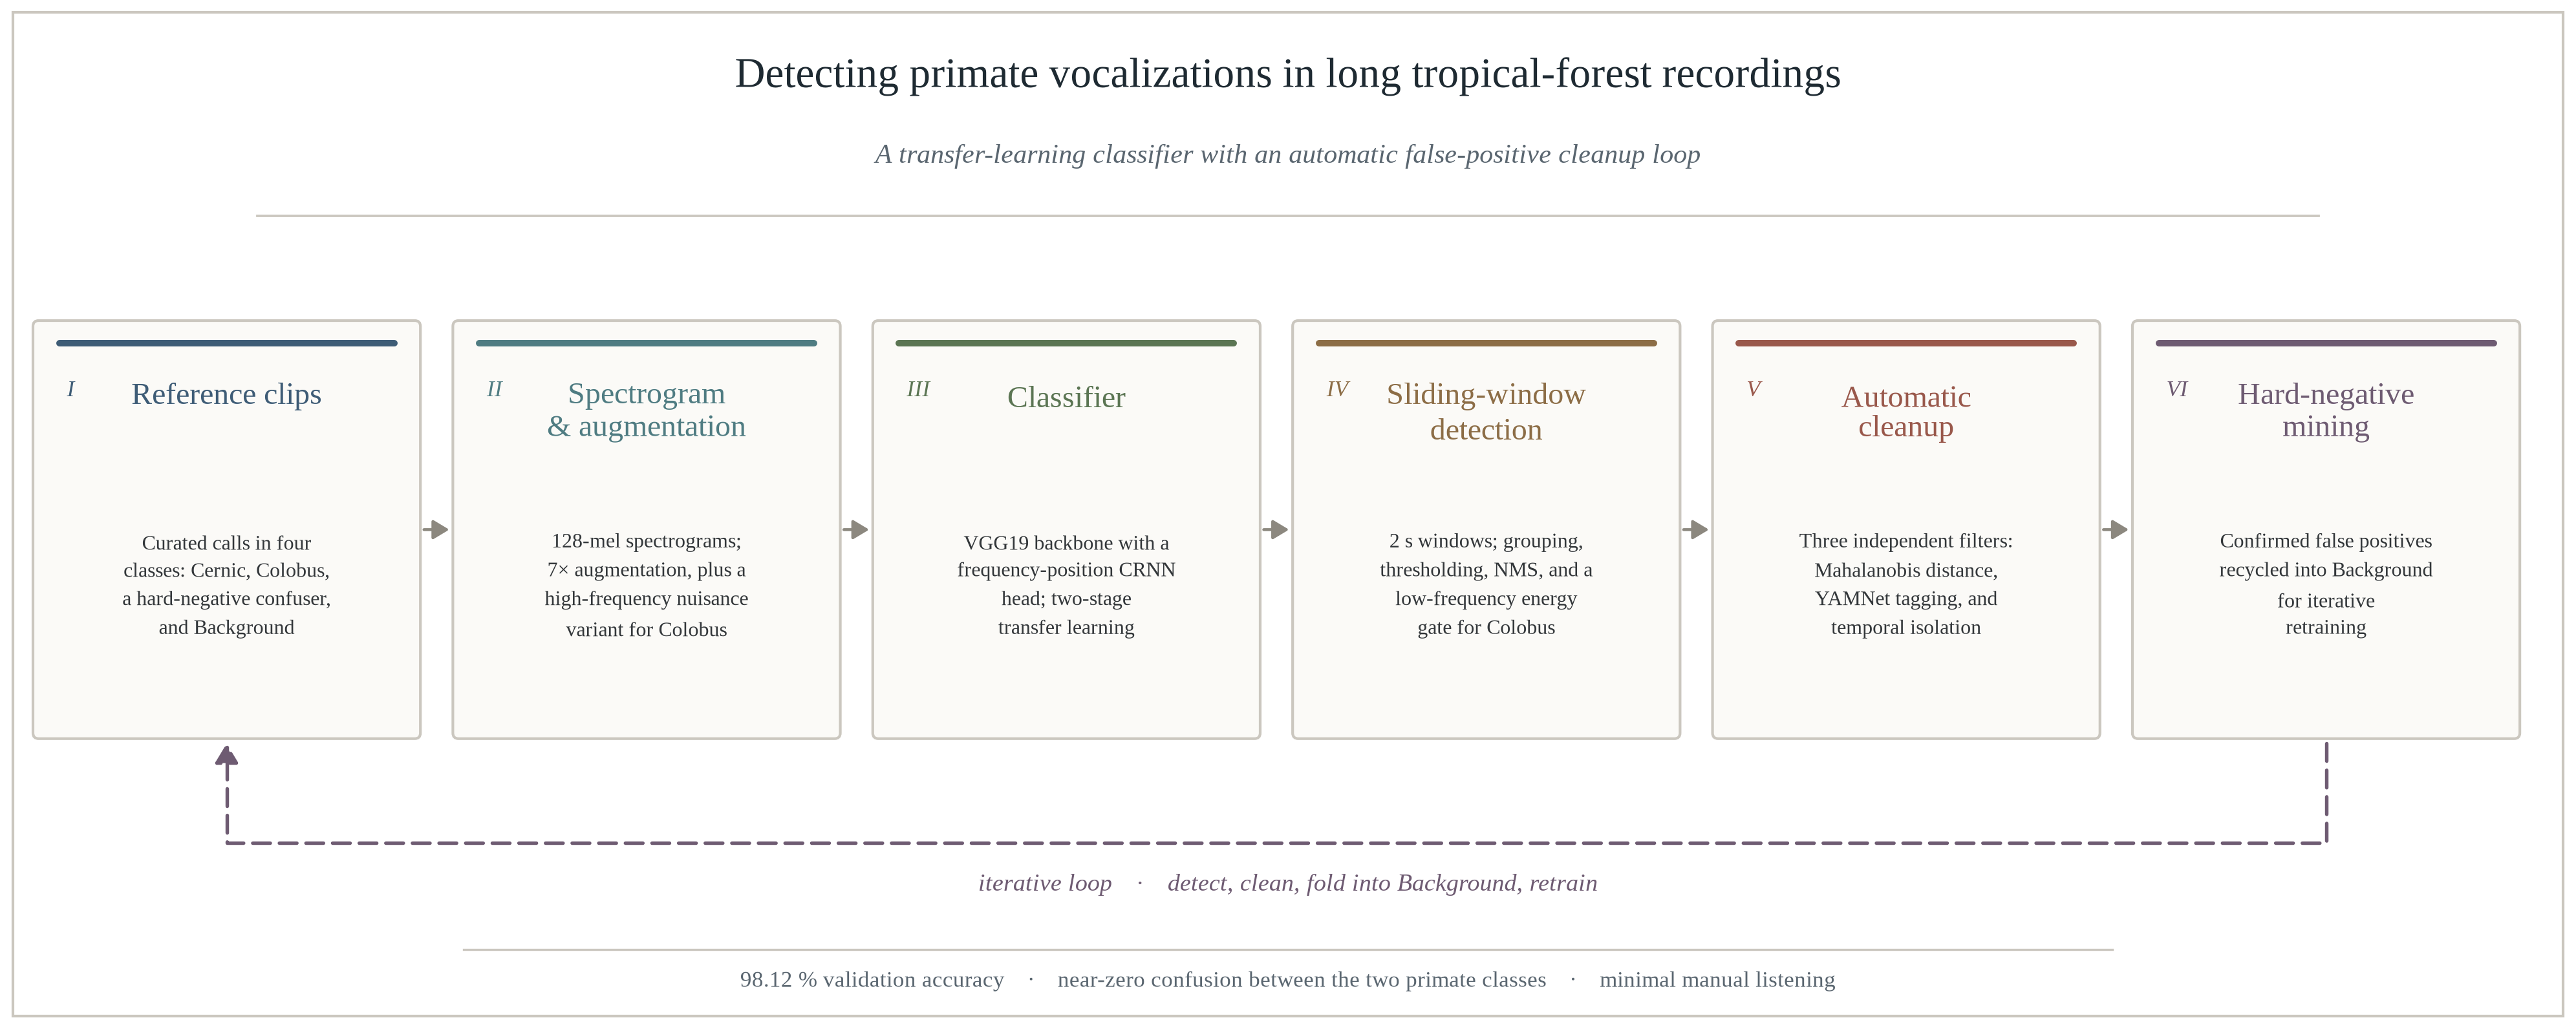
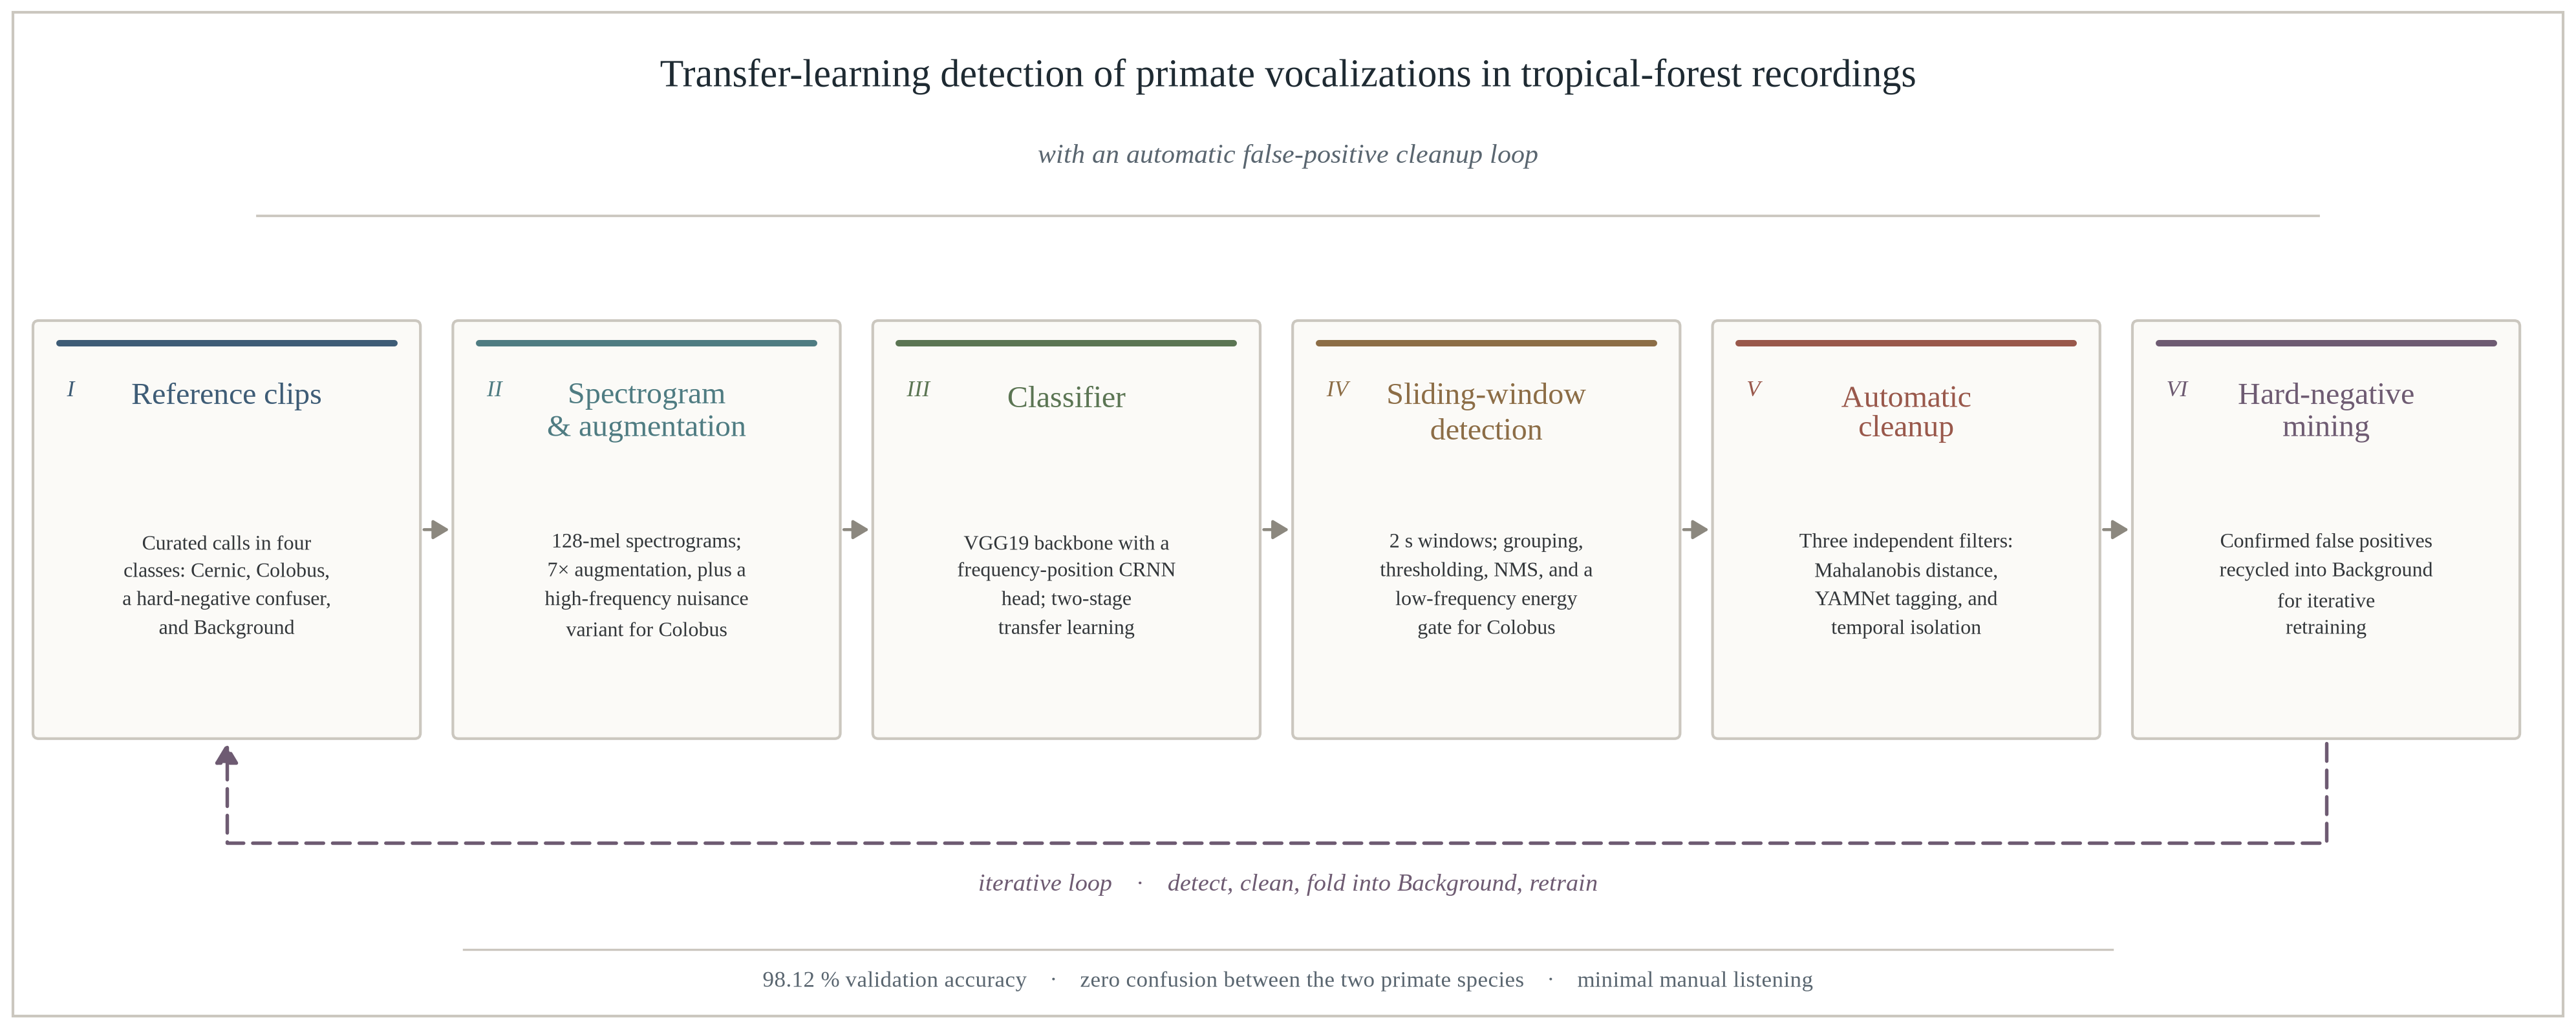
Update graphical abstract: align title, fix confusion claim
- Title now matches the manuscript: "Transfer-learning detection of primate
  vocalizations in tropical-forest recordings" + subtitle "with an automatic
  false-positive cleanup loop"
- Footer "near-zero confusion between the two primate classes" -> "zero
  confusion between the two primate species", consistent with the exact V12
  confusion matrix and the abstract

https://claude.ai/code/session_01GRhKW3iKJjm2wYYeUd56Hq

diff --git a/presentation_notebooks/make_graphical_abstract.py b/presentation_notebooks/make_graphical_abstract.py
@@ -61,11 +61,11 @@ ax.add_patch(Rectangle((0.5, 0.5), 99.0, 39.0, fill=False,
 
 # ── header ─────────────────────────────────────────────────────────────────
 ax.text(50, 37.0,
-        "Detecting primate vocalizations in long tropical-forest recordings",
-        ha="center", va="center", fontsize=15.5, color=INK)
+        "Transfer-learning detection of primate vocalizations in "
+        "tropical-forest recordings",
+        ha="center", va="center", fontsize=14.5, color=INK)
 ax.text(50, 33.9,
-        "A transfer-learning classifier with an automatic false-positive "
-        "cleanup loop",
+        "with an automatic false-positive cleanup loop",
         ha="center", va="center", fontsize=10.0, color=SUBINK, style="italic")
 # Hairline rule under the header.
 ax.plot([10, 90], [31.6, 31.6], color=FRAME, linewidth=0.9, zorder=1)
@@ -138,8 +138,8 @@ ax.text(50, 5.6,
 # ── footer: headline result ────────────────────────────────────────────────
 ax.plot([18, 82], [3.1, 3.1], color=FRAME, linewidth=0.8, zorder=1)
 ax.text(50, 1.85,
-        "98.12 % validation accuracy · near-zero confusion between "
-        "the two primate classes · minimal manual listening",
+        "98.12 % validation accuracy · zero confusion between "
+        "the two primate species · minimal manual listening",
         ha="center", va="center", fontsize=8.4, color=SUBINK)
 
 plt.subplots_adjust(left=0.0, right=1.0, top=1.0, bottom=0.0)